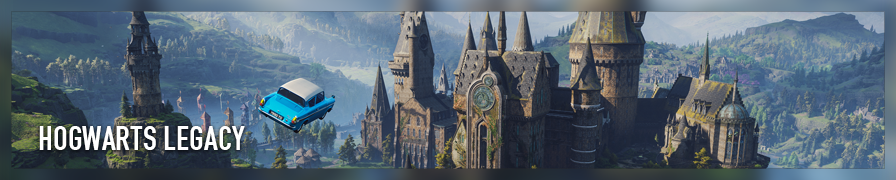
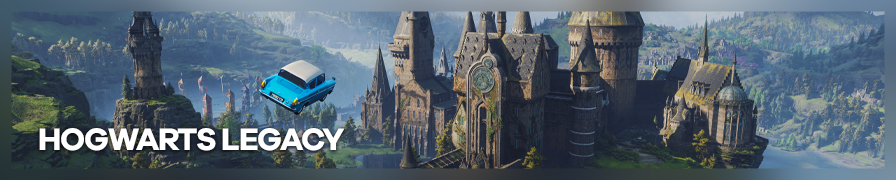
join us page amended
also fixed hogwarts legacy banner

diff --git a/markdown/joinus.md b/markdown/joinus.md
@@ -10,13 +10,14 @@ Our Discord server is the beating heart of FRAMED. It's where we gather to discu
 
 ---
 
-We pride ourselves on being active members of a closely-knit server, whether that be giving feedback to others, working on new guides for the site, or just showing up to chat and make friends. Participation is a must, as FRAMED is a community first and foremost. It is not a place to share your shots and run, nor is it a place for you to lurk. We want you to keep this community the friendly and welcoming place it's grown into over the years. 
+We pride ourselves on being active members of a closely-knit server, whether that be giving feedback to others, working on new guides for the site, or just showing up to chat and make friends. **Participation is a must**, as FRAMED is a community first and foremost. It is not a place to share your shots and run, nor is it a place for you to lurk. We want you to keep this community the friendly and welcoming place it's grown into over the years. *Inactive members may be removed at our discretion.*
 
 You may find the [Hall of FRAMED](https://framedsc.com/HallOfFramed/) to be quite intimidating. It is one of the best showcases of virtual photography out there, after all. But FRAMED is a place for everyone, from legendary screenshotters whose names you may have seen in the news, to beginners that have just opened a camera tool for the very first time. We only ask that you have a keen interest in learning and sharing everything about screenshotting.
 
 ---
 
-<center>If this sounds like a place for you, **send us a DM!**</center>
+<center>If this sounds like a place for you, <b>send us a direct message!</b></center>  
+<center>Let us know who you are, if you have any screenshots to share, and why you want to join us.</center>
 
 <div style="display:flex;justify-content:center;gap:24px">
     <div class="button">
@@ -26,5 +27,3 @@ You may find the [Hall of FRAMED](https://framedsc.com/HallOfFramed/) to be quit
     <a href="https://bsky.app/profile/framedsc.com" target="_blank" title="Bluesky"><i class="fa-brands fa-bluesky"></i></a> 
     </div>
 </div>
-
-<center>Let us know who you are, if you have any screenshots to share, and why you want to join us.</center>
